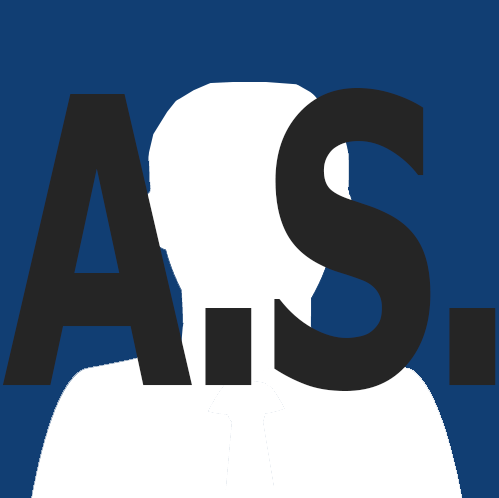
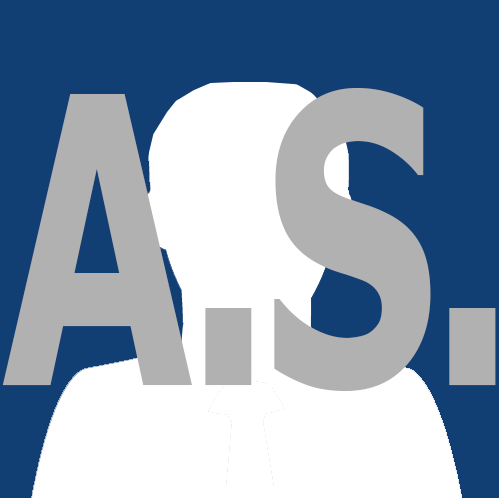
bildes teksts cita krasa

Changed region(s): [[0.0, 0.1807, 0.511, 0.7831], [0.5411, 0.1506, 0.8717, 0.7831], [0.9018, 0.6024, 1.0, 0.7831]]

diff --git a/metodike.html b/metodike.html
@@ -48,7 +48,7 @@
                         <li style="color: rgb(160, 179, 161);">RU</li>
                     </div>
                     <div id="modal-btn" class="user" style="float: right;">
-                        <img class="userimg" src="images/img_avatar.png" width="45">
+                        <img class="userimg" src="images/img_as.png" width="45">
                         <div style="float: right;">
                             <li style="margin-top: -13px;">Ārija Sproģe</li>
                             <li style="font-size: 15px; margin-left: -115px;padding-top: 25px;">(Metodiķe)</li>
@@ -198,7 +198,7 @@
             <span class="close-btn">&times;</span>
             <div class="user-container">
                 <div class="column-user">
-                    <img class="userimg" src="images/img_avatar.png" width="200">
+                    <img class="userimg" src="images/img_as.png" width="200">
                 </div>
                 <div class="column-user">
                     <p style="font-size: 20px;font-weight: bold;margin-top: -10px;">Ārija Sproģe</p>
